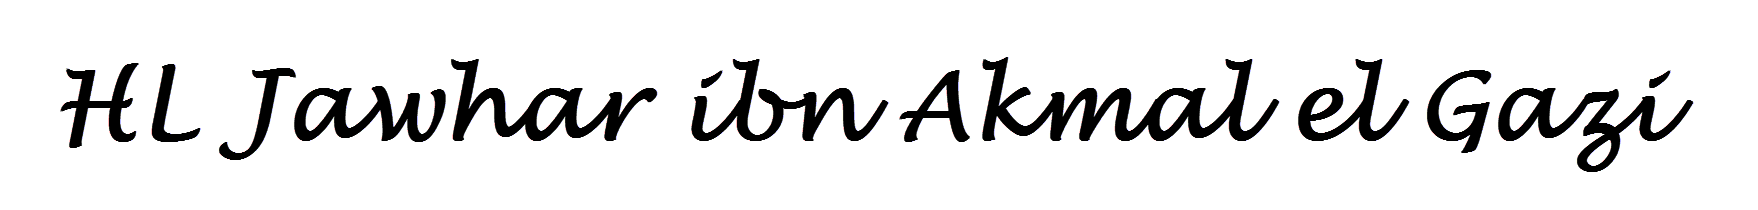
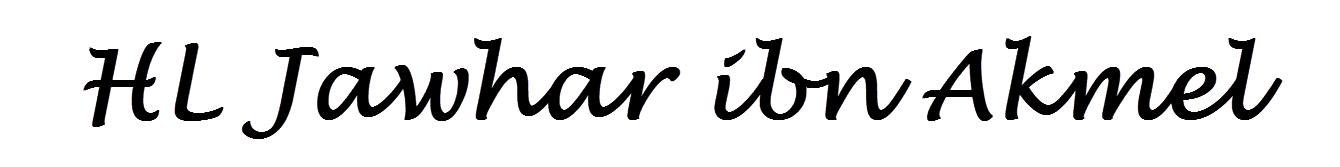
Updated sig

Changed region(s): [[0.0306, 0.2096, 0.9791, 0.8383]]

diff --git a/falcon-print/src/main/java/org/calontir/marshallate/falcon/print/CardMaker.java b/falcon-print/src/main/java/org/calontir/marshallate/falcon/print/CardMaker.java
@@ -154,7 +154,7 @@ public class CardMaker {
         cell.setHorizontalAlignment(Element.ALIGN_JUSTIFIED);
         table.addCell(cell);
 
-        cell = new PdfPCell(new Phrase(String.format("Signed and Authorized by the hand of Honorable Lord Jawhar ibn Akmal el Gazi, the Calontir Marshal of Cards on this day %s.\n\n",
+        cell = new PdfPCell(new Phrase(String.format("Signed and Authorized by the hand of Honorable Lord Jawhar ibn Akmel el Ghazi, the Calontir Marshal of Cards on this day %s.\n\n",
                 new DateTime().toString("MM/dd/yyyy")), normalFont));
         cell.setBorder(Rectangle.NO_BORDER);
         cell.setPaddingLeft(padding);
@@ -321,7 +321,7 @@ public class CardMaker {
             p.add(new Phrase(String.format("SCA Name: %s\n", fighter.getScaName()), smallFont));
         }
         p.add(new Phrase(String.format("Date Issued: %s  Expires: %s\n", startDate.toString("MM/dd/yyyy"), endDate.toString("MM/dd/yyyy")), smallFont));
-        p.add(new Phrase(String.format("Issuing Official: %s\n", "Honorable Lord Jawhar ibn Akmal el Gazi"), smallFont));
+        p.add(new Phrase(String.format("Issuing Official: %s\n", "Honorable Lord Jawhar ibn Akmel el Ghazi"), smallFont));
         cell = new PdfPCell(p);
         //cell.setExtraParagraphSpace(1.5f);
         cell.setBorder(Rectangle.TOP + Rectangle.BOTTOM);
